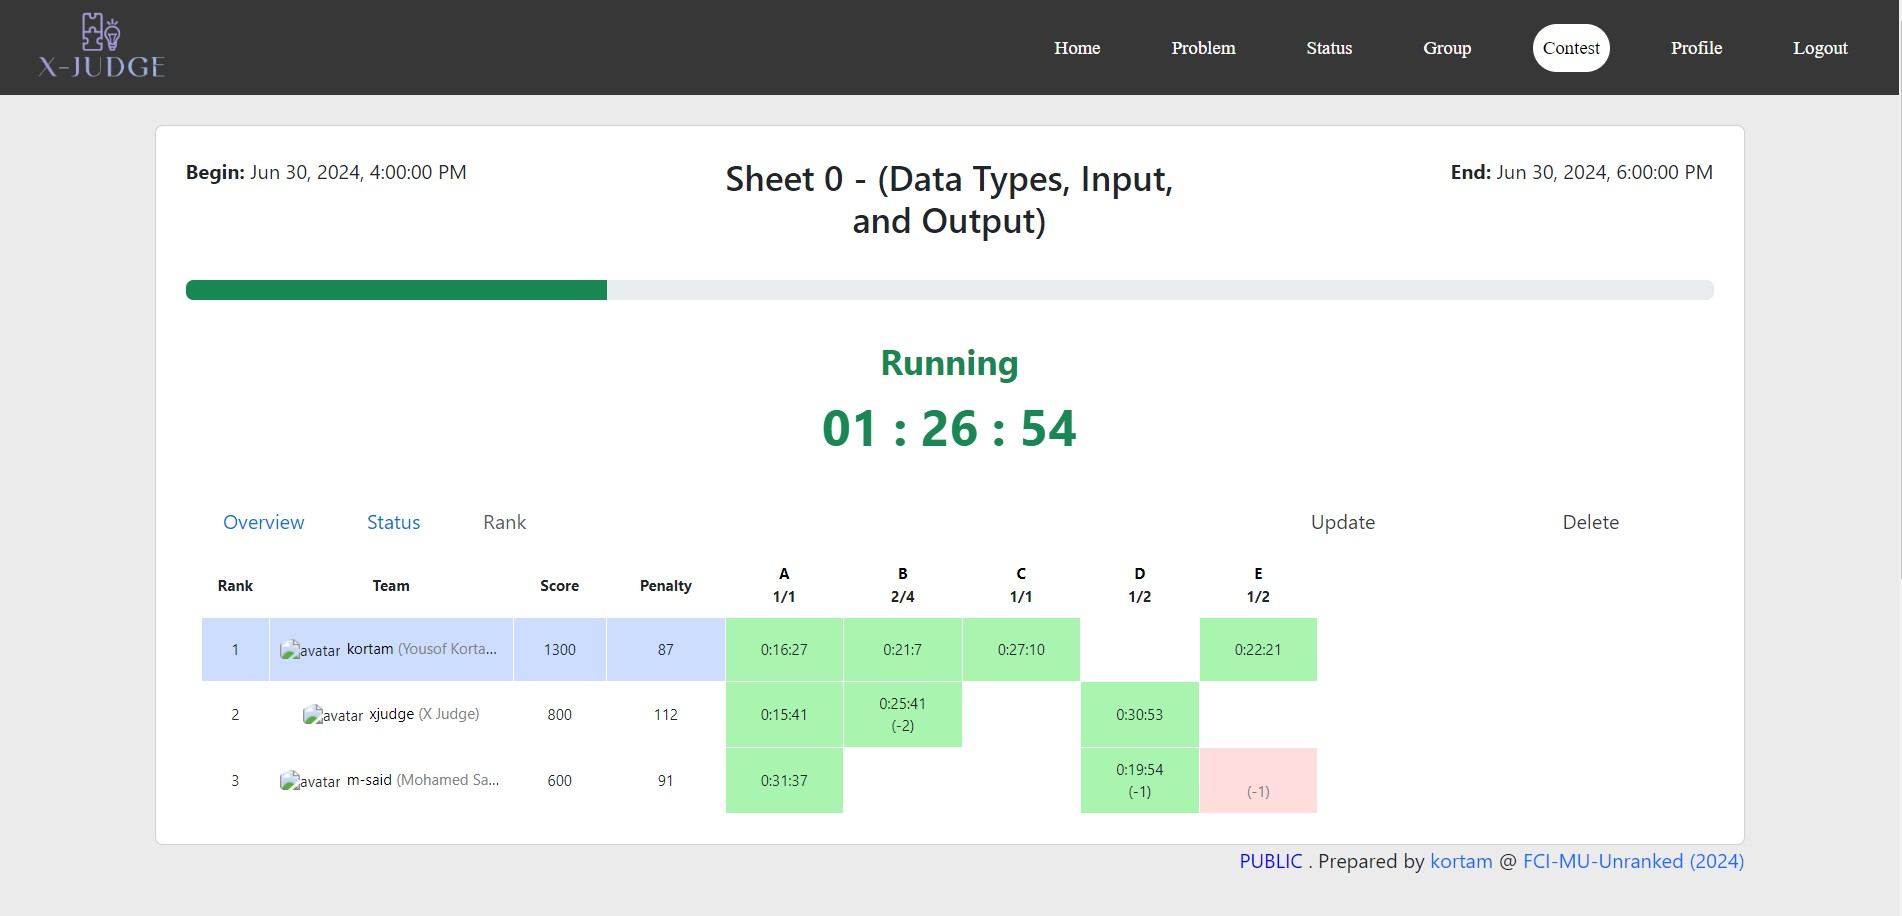
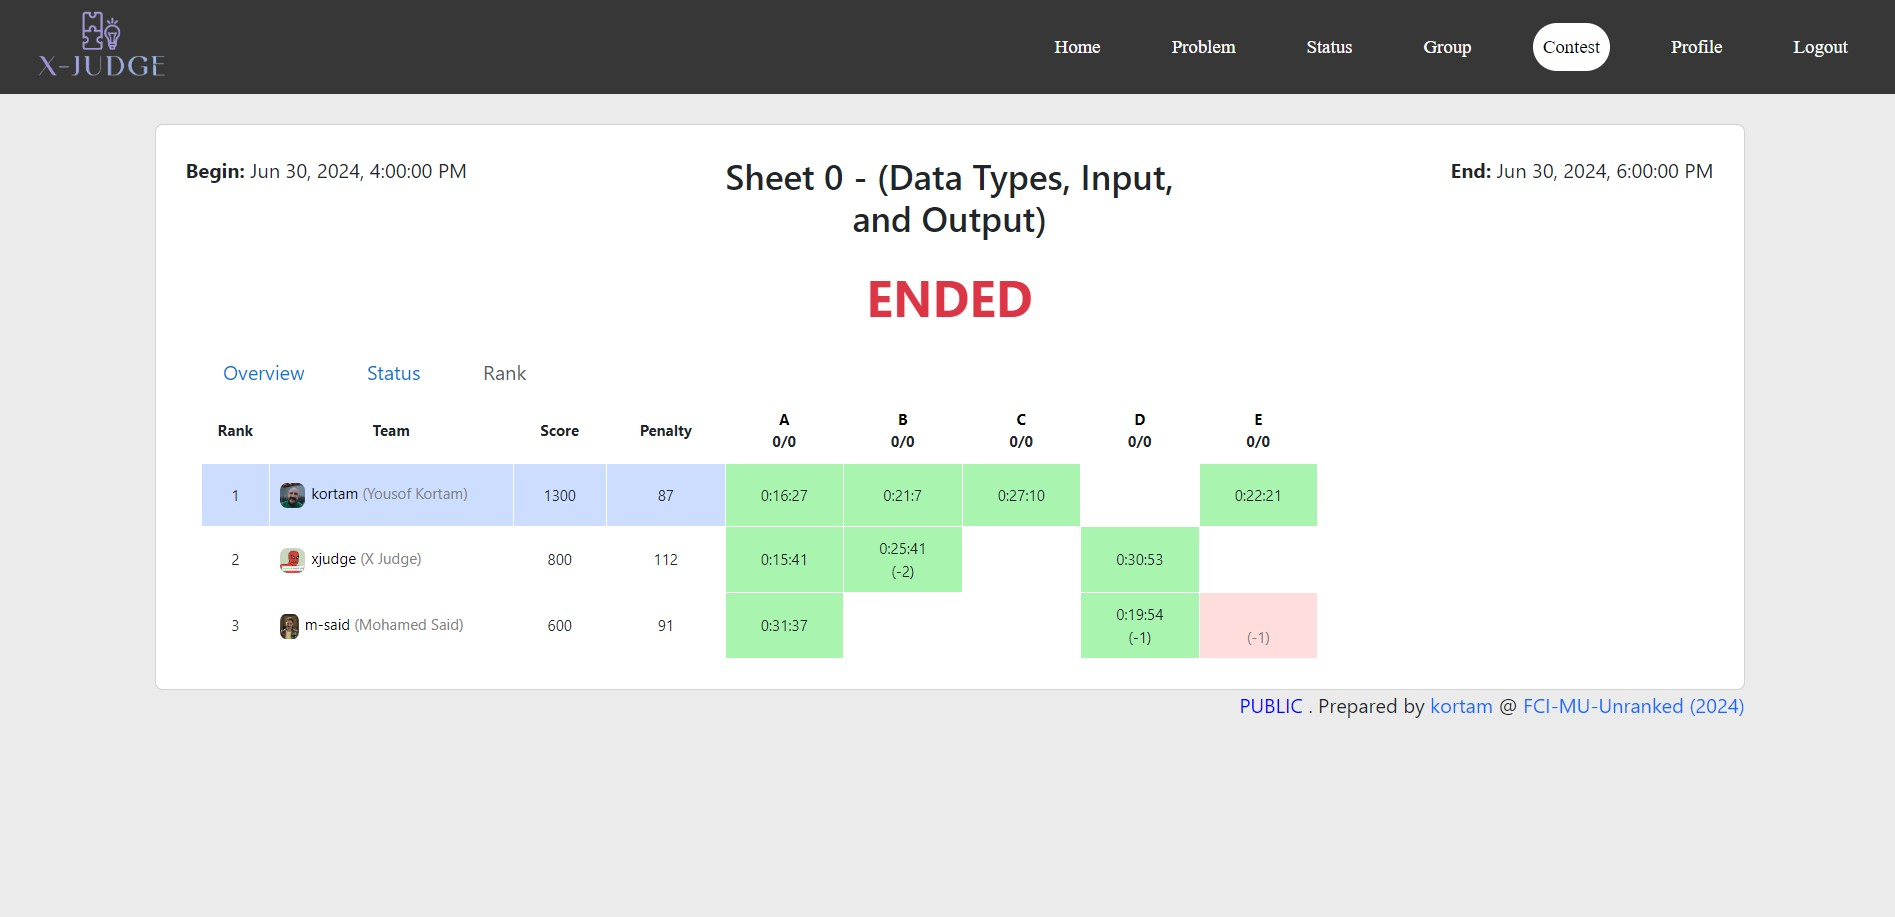
chore: handle contest rank alignment

diff --git a/src/app/Components/contest-rank/contest-rank.component.html b/src/app/Components/contest-rank/contest-rank.component.html
@@ -30,7 +30,7 @@
 
                     <td class="rank meta" [ngClass]="{'rank meta' : i === 0}">{{i+1}}</td>
                     <td class="team meta" [ngClass]="{'team meta' : i === 0 , 'team' : i !==0}">
-                        <div>
+                        <div style="text-align: left;">
                             <img class="contestant-avatar" [src]="userRank.photoUrl"
                                 src="https://vj.csgrandeur.cn/user/avatar/705205?v=1674489701" alt="avatar"
                                 class="contestant-avatar"><a href="/profile/{{userRank.handle}}"
@@ -55,5 +55,3 @@
         </table>
     </div>
 </div>
-
-  

diff --git a/src/app/Components/update-contest/update-contest.component.ts b/src/app/Components/update-contest/update-contest.component.ts
@@ -42,7 +42,8 @@ export class UpdateContestComponent implements OnInit {
 
   initializeForm() {
     const contest = this.Contestdata.contest;
-    const problems = this.Contestdata.problemSet ;
+    const problems = this.Contestdata.problemSet;
+    this.enableDeleteProblem = problems.length > 1;
     
     this.updateContestForm = new FormGroup({
       title: new FormControl(contest.title, [Validators.required]),
